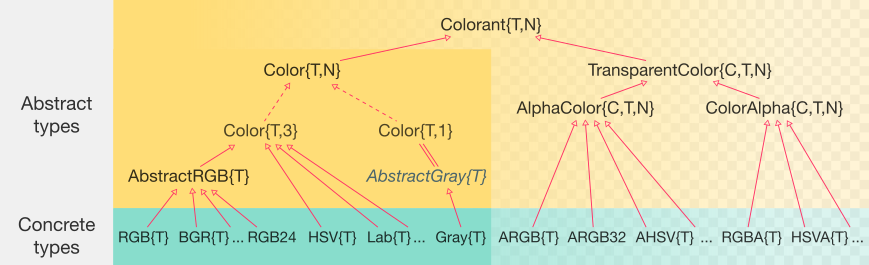
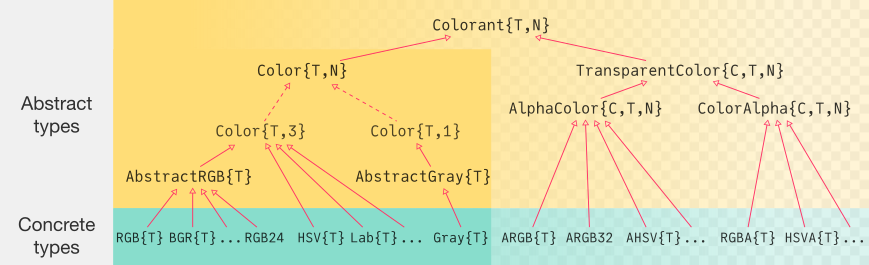
Update type hierarchy chart and README.md (#333)

diff --git a/README.md b/README.md
@@ -1,6 +1,6 @@
 # ColorTypes
 
-[![Build Status](https://github.com/JuliaGraphics/ColorTypes.jl/workflows/Unit%20test/badge.svg)](https://github.com/JuliaGraphics/ColorTypes.jl/actions)
+[![Build Status](https://github.com/JuliaGraphics/ColorTypes.jl/actions/workflows/UnitTest.yml/badge.svg)](https://github.com/JuliaGraphics/ColorTypes.jl/actions/workflows/UnitTest.yml)
 [![PkgEval](https://juliaci.github.io/NanosoldierReports/pkgeval_badges/C/ColorTypes.svg)](https://juliaci.github.io/NanosoldierReports/pkgeval_badges/report.html)
 [![codecov](https://codecov.io/github/JuliaGraphics/ColorTypes.jl/graph/badge.svg?token=QVcrtmVp3n)](https://codecov.io/github/JuliaGraphics/ColorTypes.jl)
 [![Aqua QA](https://juliatesting.github.io/Aqua.jl/dev/assets/badge.svg)](https://github.com/JuliaTesting/Aqua.jl)
@@ -30,8 +30,7 @@ Here is the type hierarchy used in ColorTypes:
   indicates an object that also has alpha-channel information.
 
 - `Color{T,3}` is a 3-component color (like RGB = red, green, blue);
-  `Color{T,1}` is a 1-component color (i.e., grayscale).
-  `AbstractGray{T}` is a typealias for `Color{T,1}`.
+  `Color{T,1}` is a 1-component color (typically, grayscale).
 
 - Most colors have both `AlphaColor` and `ColorAlpha` variants;
   for example, `RGB` has both `ARGB` and `RGBA`.  These indicate
